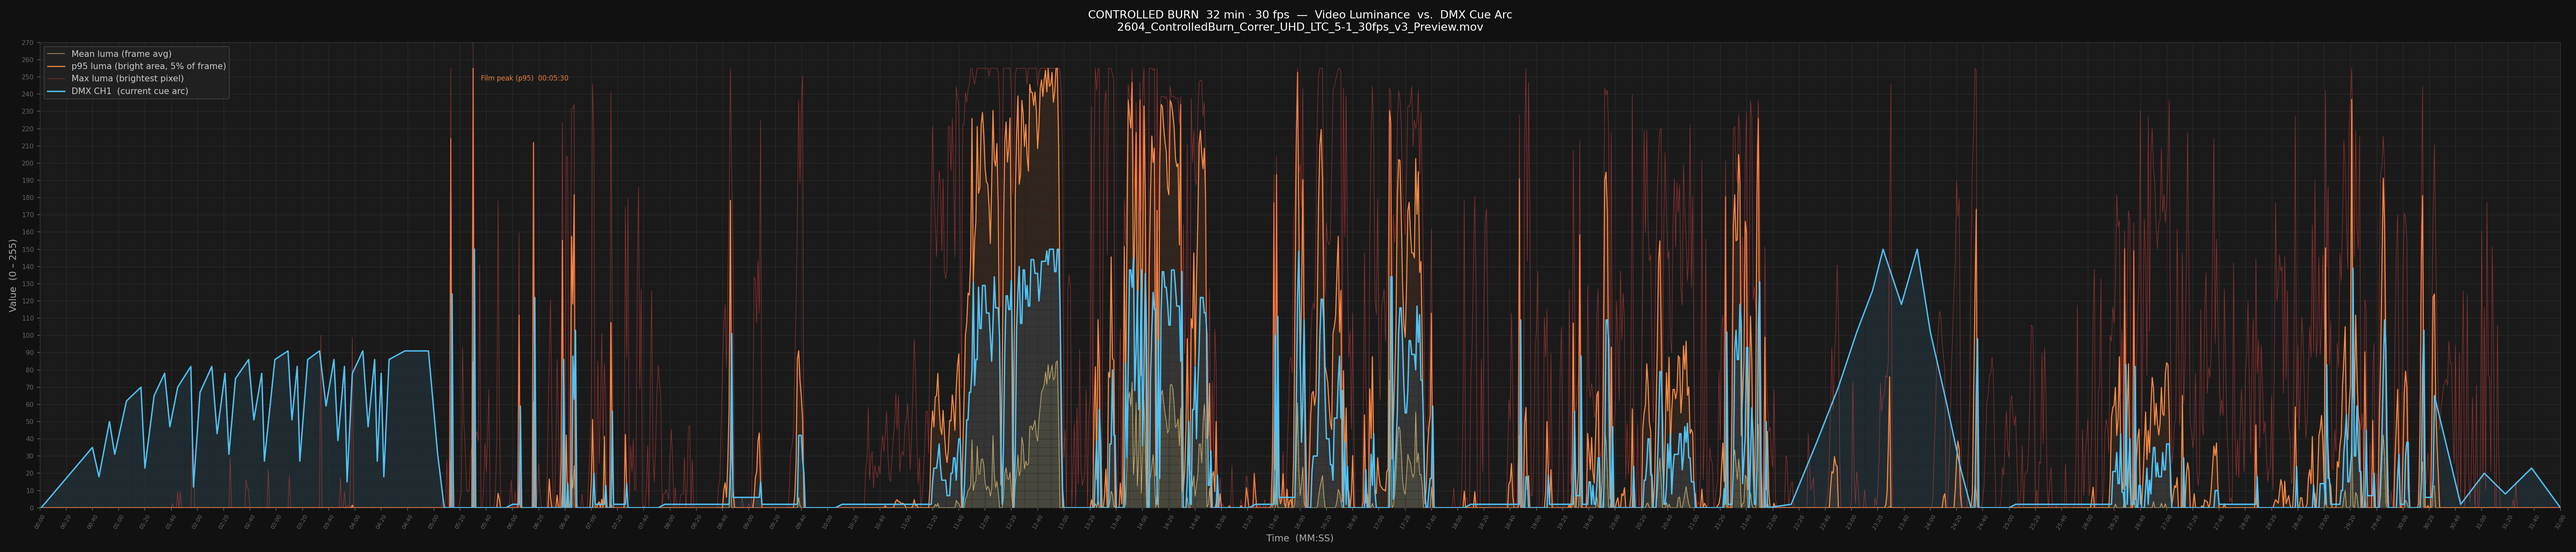
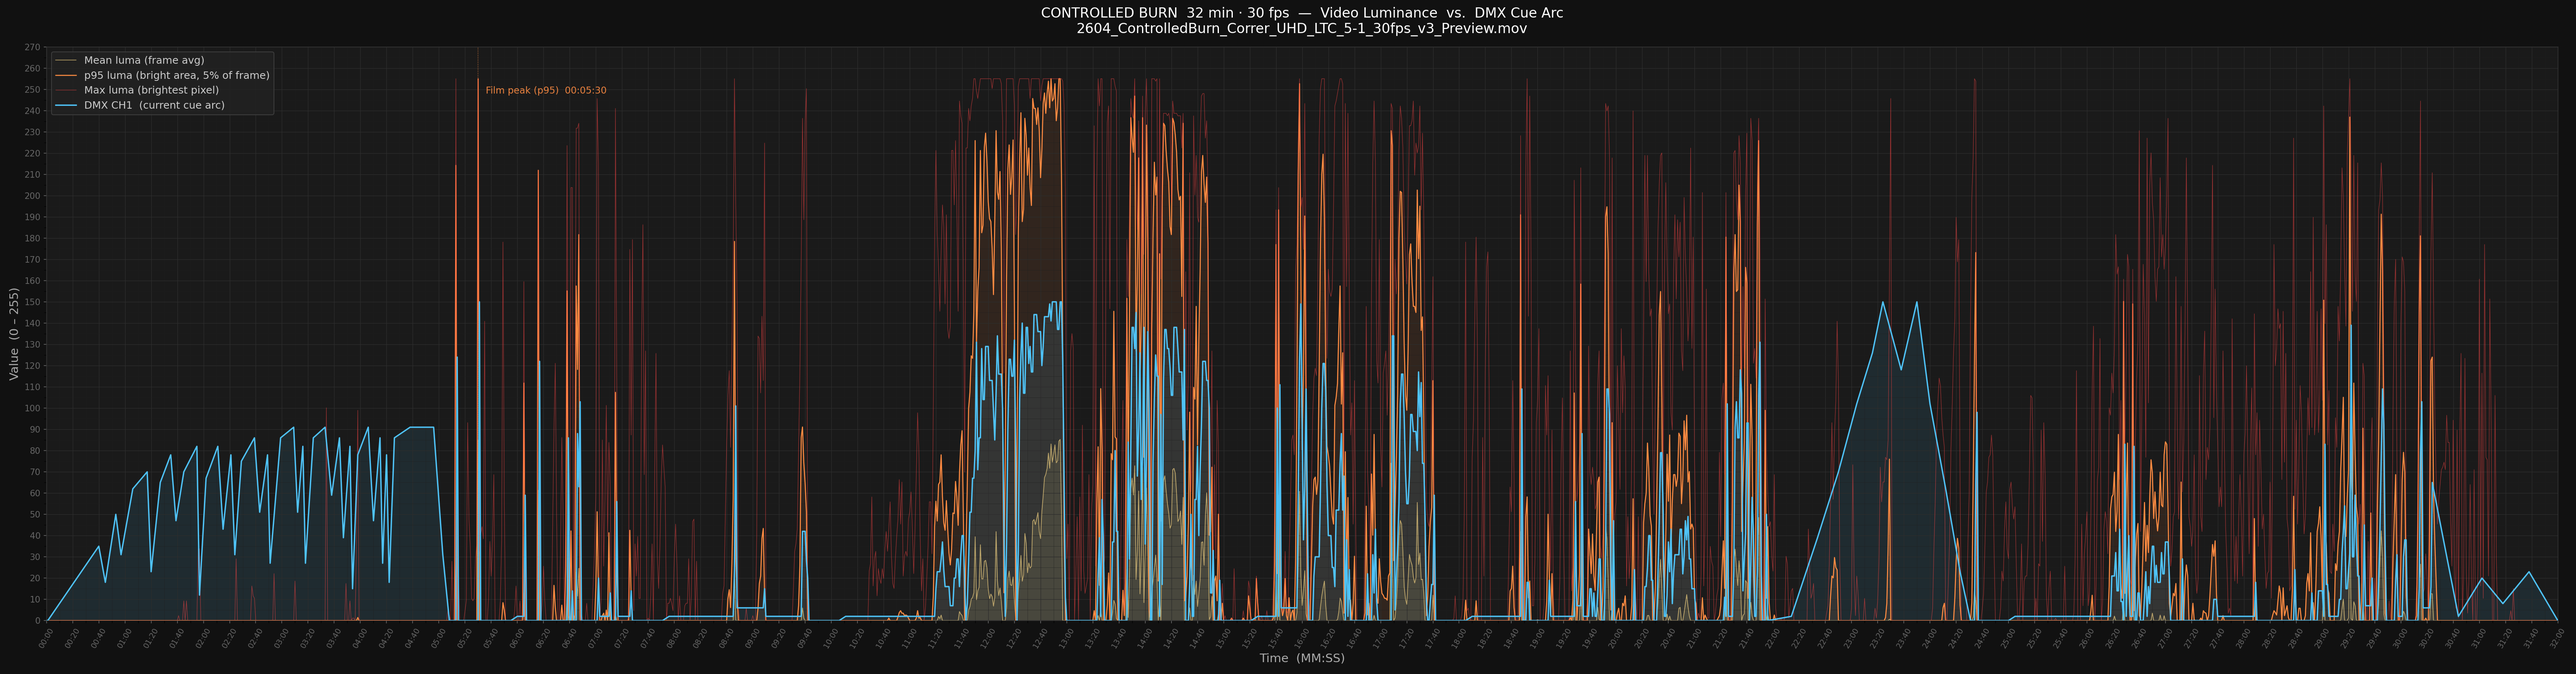
plot: larger fonts - tick 9/10pt, labels 14pt, title 16pt, 42x11 figure

diff --git a/analyze_movie_luma.py b/analyze_movie_luma.py
@@ -247,7 +247,7 @@ def main():
     COL_LUMA = "#f0d080"   # warm gold  — video luma
     COL_DMX  = "#4fc3f7"   # cool blue  — DMX arc
 
-    fig, ax = plt.subplots(figsize=(42, 9))
+    fig, ax = plt.subplots(figsize=(42, 11))
     fig.patch.set_facecolor(BG)
     ax.set_facecolor(AX)
 
@@ -288,22 +288,22 @@ def main():
         h, r2 = divmod(film_peak_sec, 3600); mn, s = divmod(r2, 60)
         ax.axvline(x=film_peak_sec, color=COL_P95, linewidth=0.8, linestyle=":", alpha=0.7)
         ax.text(film_peak_sec + 6, 248, f"Film peak (p95)  {h:02d}:{mn:02d}:{s:02d}",
-                color=COL_P95, fontsize=8, alpha=0.9)
+                color=COL_P95, fontsize=11, alpha=0.9)
 
     # DMX apex marker
     if APEX_SEC is not None:
         ax.axvline(x=APEX_SEC, color="#ff6e6e", linewidth=0.8, linestyle="--", alpha=0.6)
         h, r2 = divmod(APEX_SEC, 3600); mn, s = divmod(r2, 60)
         ax.text(APEX_SEC + 6, 232, f"DMX apex  {h:02d}:{mn:02d}:{s:02d}",
-                color="#ff6e6e", fontsize=8, alpha=0.8)
+                color="#ff6e6e", fontsize=11, alpha=0.8)
 
     ax.set_xlim(0, TOTAL_SEC)
     ax.set_ylim(0, 270)
-    ax.set_xlabel("Time  (MM:SS)", color="#aaaaaa", fontsize=11)
-    ax.set_ylabel("Value  (0 – 255)", color="#aaaaaa", fontsize=11)
+    ax.set_xlabel("Time  (MM:SS)", color="#aaaaaa", fontsize=14)
+    ax.set_ylabel("Value  (0 – 255)", color="#aaaaaa", fontsize=14)
     ax.set_title(
         f"{LABEL}  —  Video Luminance  vs.  DMX Cue Arc\n{MOVIE.name}",
-        color="#ffffff", fontsize=13, pad=14
+        color="#ffffff", fontsize=16, pad=16
     )
     ax.tick_params(colors="#666666")
     for spine in ax.spines.values():
@@ -322,13 +322,13 @@ def main():
     ax.grid(True, which="major", color="#2d2d2d", linewidth=0.6, zorder=0)
     # minor grid — very faint
     ax.grid(True, which="minor", color="#1f1f1f", linewidth=0.25, zorder=0)
-    ax.tick_params(axis="x", which="major", labelsize=6.5, rotation=60)
-    ax.tick_params(axis="x", which="minor", length=3,   labelsize=0)
-    ax.tick_params(axis="y", which="major", labelsize=7.5)
-    ax.tick_params(axis="y", which="minor", length=3,   labelsize=0)
+    ax.tick_params(axis="x", which="major", labelsize=9, rotation=60)
+    ax.tick_params(axis="x", which="minor", length=3,  labelsize=0)
+    ax.tick_params(axis="y", which="major", labelsize=10)
+    ax.tick_params(axis="y", which="minor", length=3,  labelsize=0)
 
     ax.legend(facecolor="#222222", edgecolor="#444444",
-              labelcolor="#cccccc", fontsize=10, loc="upper left")
+              labelcolor="#cccccc", fontsize=12, loc="upper left")
 
     plt.tight_layout()
     plt.savefig(str(OUT_PNG), dpi=150, facecolor=fig.get_facecolor())
